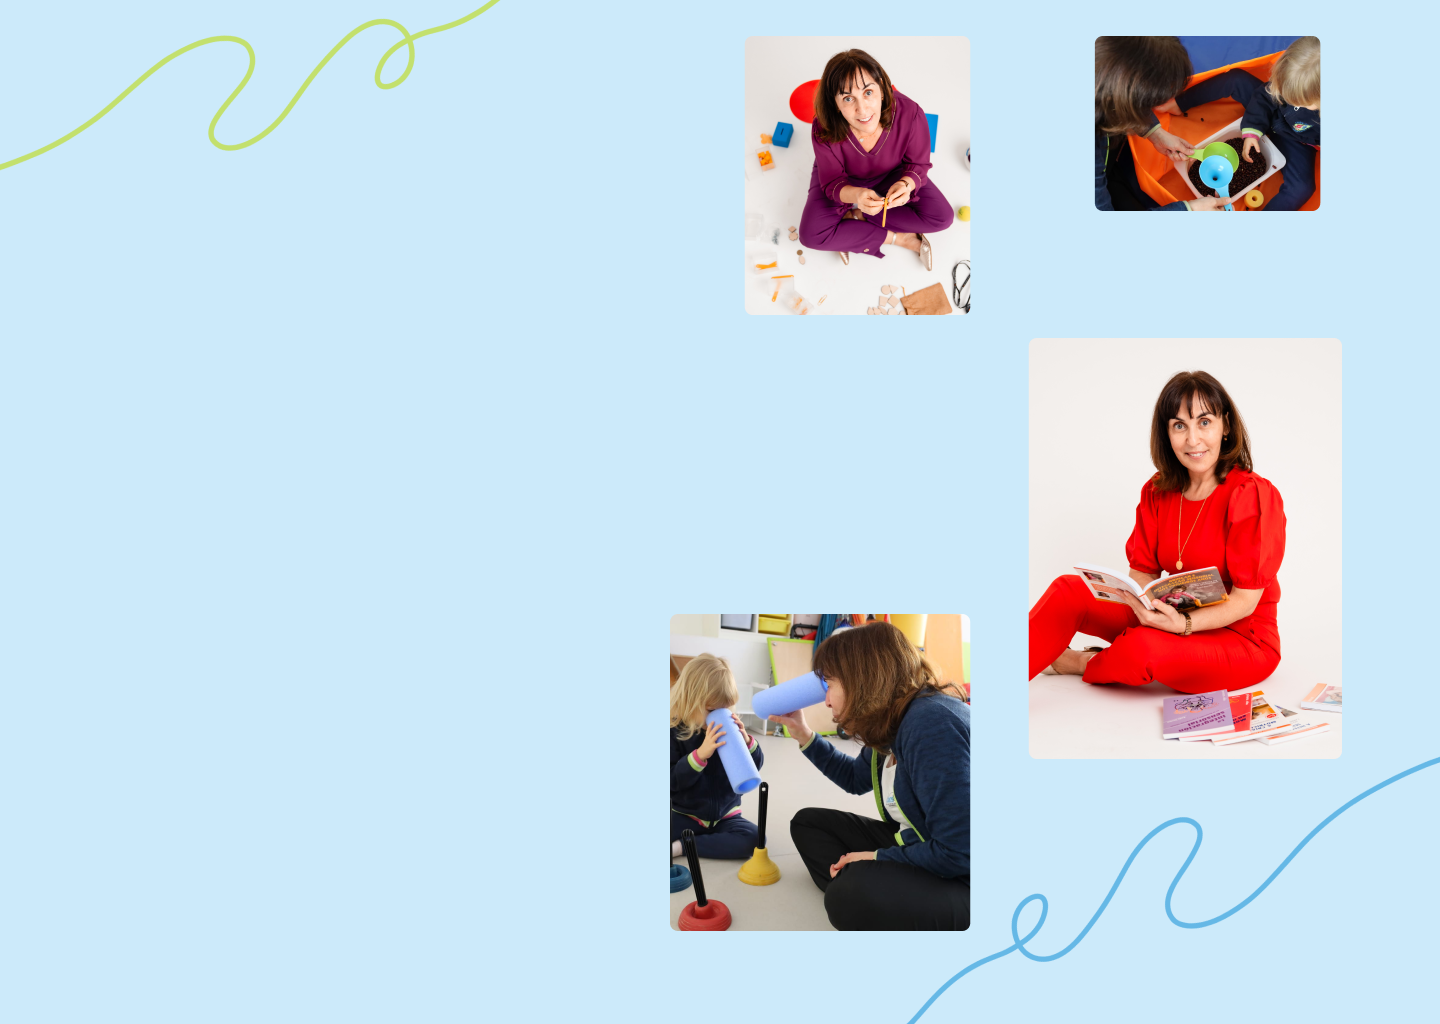
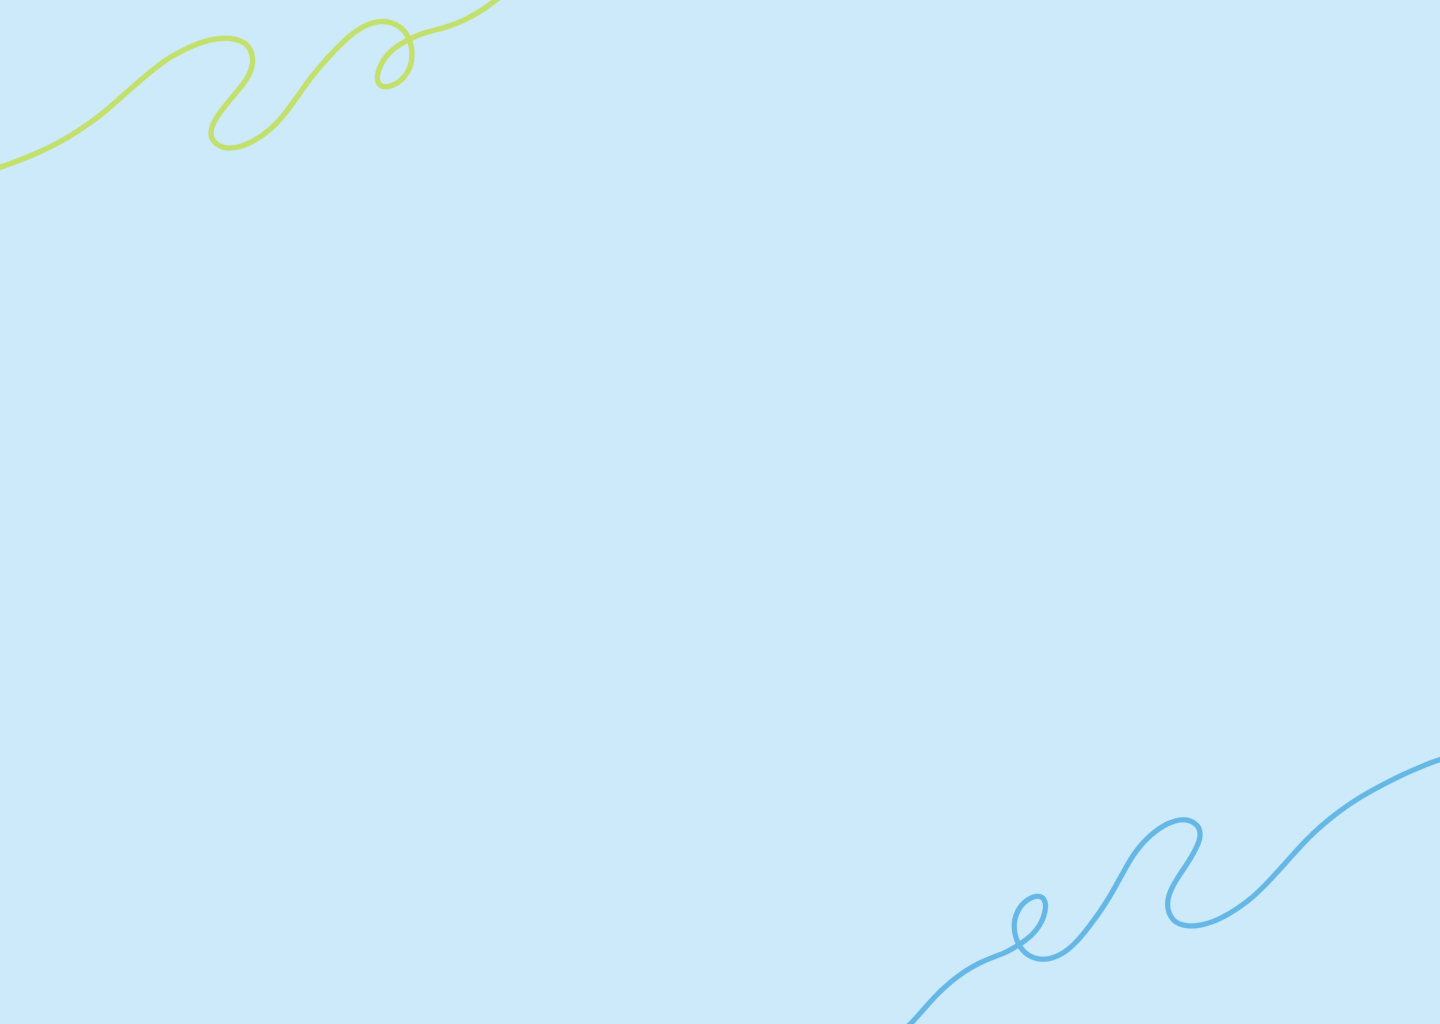
[UPDATE] under constraction form

Changed region(s): [[0.4375, 0.3125, 0.9375, 0.9062], [0.5, 0.0312, 0.6875, 0.3125], [0.75, 0.0312, 0.9375, 0.2188]]

diff --git a/psycology/main/templates/page_under_construction.html b/psycology/main/templates/page_under_construction.html
@@ -72,7 +72,7 @@
                 <div class="modal-dialog">
                     <div class="modal-content">
                         <div class="modal-header">
-                            <h5 class="modal-title" id="exampleModalLabel">Form</h5>
+                            <h5 class="modal-title" id="exampleModalLabel">Send us a message:</h5>
                             <button type="button" class="close" data-dismiss="modal" aria-label="Close">
                                 <span aria-hidden="true">&times;</span>
                             </button>
@@ -80,15 +80,26 @@
                         <div class="modal-body">
                             <form>
                                 <div class="form-group">
-                                    <label for="exampleInputEmail1">Email address</label>
-                                    <input type="email" class="form-control" id="exampleInputEmail1" aria-describedby="emailHelp">
-                                    <small id="emailHelp" class="form-text text-muted">We'll never share your email with anyone else.</small>
+                                    <label for="name">Name:</label>
+                                    <input type="name" class="form-control" id="name" aria-describedby="Full Name">
+                                </div>
+                                <div class="form-group form-group-col">
+                                    <div class="left_col my_custom_col">
+                                        <label for="exampleInputEmail1">Email address:</label>
+                                        <input type="email" class="form-control" id="exampleInputEmail1" aria-describedby="emailHelp">
+                                    </div>
+                                    <div class="right_col my_custom_col">
+                                        <label for="exampleInputEmail1">Subject:</label>
+                                        <input type="email" class="form-control" id="exampleInputEmail1" aria-describedby="emailHelp">
+                                    </div>
+                                    <!--<small id="emailHelp" class="form-text text-muted">We'll never share your email with anyone else.</small>-->
                                 </div>
                                 <div class="form-group">
-                                    <label for="exampleInputPassword1">Password</label>
-                                    <input type="password" class="form-control" id="exampleInputPassword1">
+                                    <small id="emailHelp" class="form-text text-muted">We'll never share your email with anyone else.</small>
+                                    <label for="msg" class="form-label mt-4">Message:</label>
+                                    <textarea class="form-control" id="msg" rows="5"></textarea>
                                 </div>
-                                <button type="submit" class="btn btn-primary">Submit</button>
+                                <button type="submit" class="btn btn-primary boris">Send Message</button>
                             </form>
                         </div>
                     </div>

diff --git a/psycology/main/static/main/page_under_construction.css b/psycology/main/static/main/page_under_construction.css
@@ -20,8 +20,6 @@
     width: 21%; 
 }
 
-
-
 .picture_part {
     position: absolute; /* Абсолютное позиционирование */
     top: 0;
@@ -36,5 +34,25 @@
     height: 100%; /* Изображение растягивается по высоте */
     /*object-fit: cover; /* Сохраняет пропорции изображения, обрезая лишнюю часть */
 }
+
+.form-group-col{
+    display: flex;
+    justify-content: space-between;
+}
+
+
+.my_custom_col{
+    width: 49%;
+}
+
+.modal-content{
+    background-color: rgb(189, 212, 223);
+}
+
+.boris{
+    margin: 0 auto;
+    width: 100%;
+}
+
 
 
